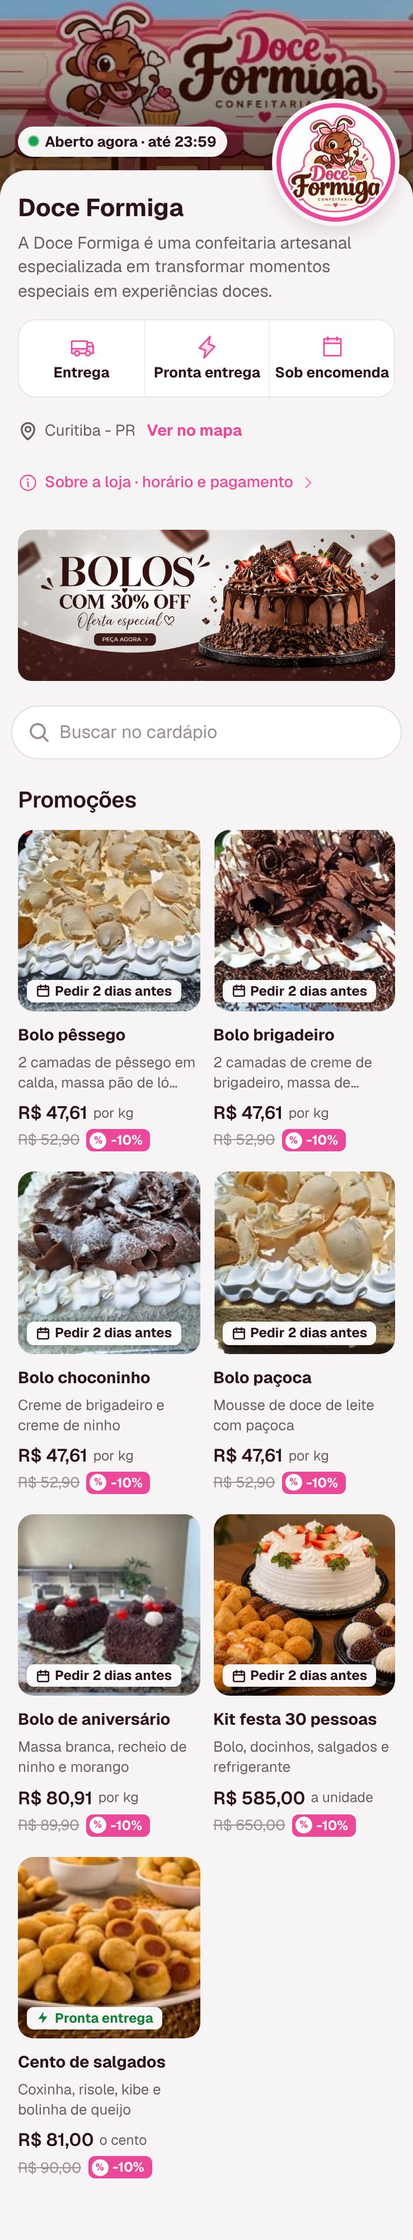
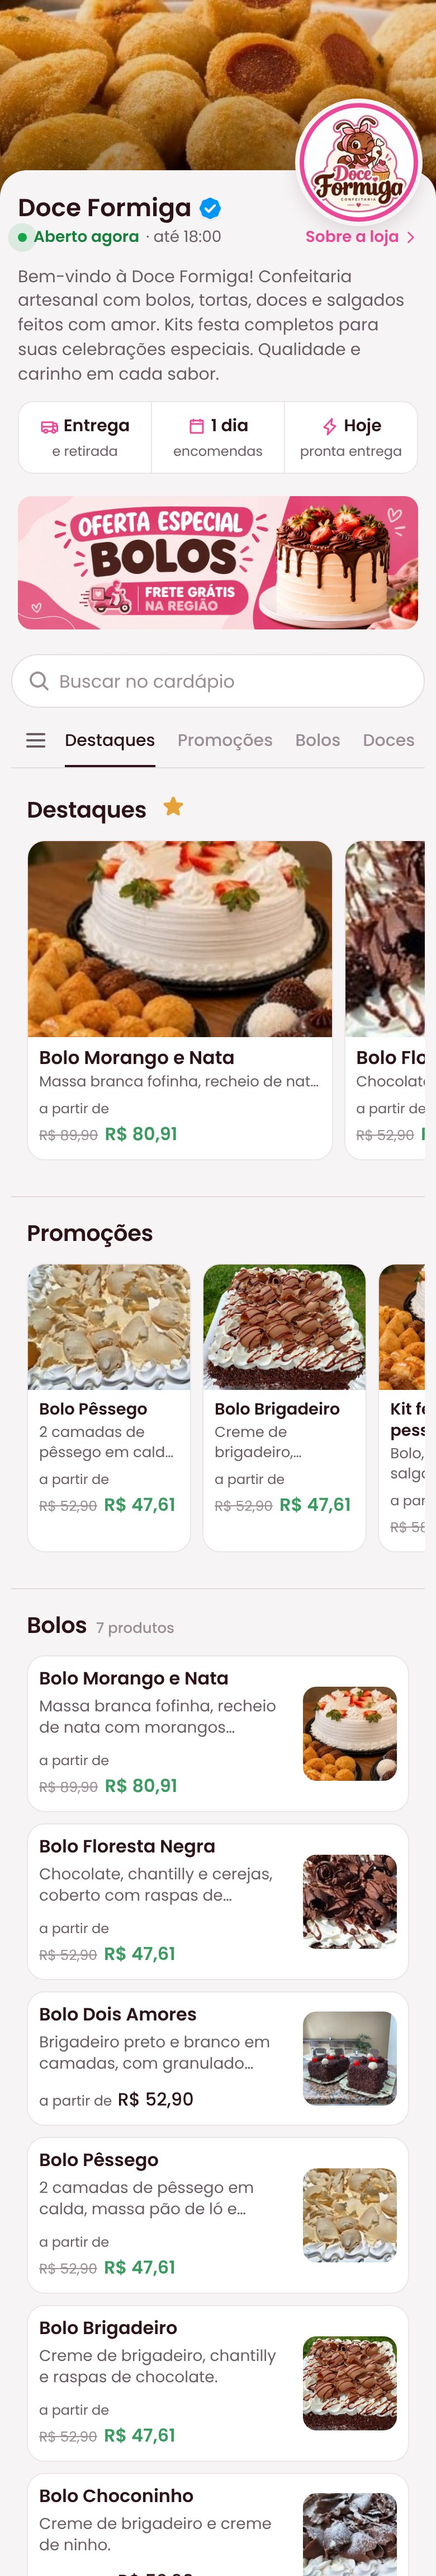
4.64: tutorial — prints novos do cardápio atual (destaques, promoções rolando de lado) e celular maior com o texto mais pra cima
Claude-Session: https://claude.ai/code/session_01Tr1mYrTU9rTShFnbh3vuaV

diff --git a/src/components/boasVindas/BoasVindas.tsx b/src/components/boasVindas/BoasVindas.tsx
@@ -63,7 +63,7 @@ const PRODUTO = {
 const fotoCliente = (id: string) => `/tutorial/boas-vindas/clientes/${id}.webp`
 
 // Só as imagens que as telas usam
-const IMAGENS = ['/tutorial/cardapio-exemplo.jpg?v=2', '/tutorial/cardapio-exemplo-nav.jpg', ...Object.values(PRODUTO)]
+const IMAGENS = ['/tutorial/cardapio-exemplo.jpg?v=3', '/tutorial/cardapio-exemplo-nav.jpg?v=3', ...Object.values(PRODUTO)]
 
 export default function BoasVindas({ isOpen, onClose, nome }: Props) {
   const [tela, setTela] = useState(0)
@@ -350,9 +350,9 @@ function Encolhe({ largura, children }: { largura: number; children: ReactNode }
   )
 }
 
-const PRINT_CEL = '/tutorial/cardapio-exemplo.jpg?v=2'
-const PRINT_CEL_MENU = '/tutorial/cardapio-exemplo-nav.jpg'
-const PRINT_PC = '/tutorial/cardapio-exemplo-pc.jpg?v=2'
+const PRINT_CEL = '/tutorial/cardapio-exemplo.jpg?v=3'
+const PRINT_CEL_MENU = '/tutorial/cardapio-exemplo-nav.jpg?v=3'
+const PRINT_PC = '/tutorial/cardapio-exemplo-pc.jpg?v=3'
 
 function DemoCardapio() {
   return (

diff --git a/src/components/boasVindas/boasVindas.css b/src/components/boasVindas/boasVindas.css
@@ -341,3 +341,10 @@
 @keyframes bvNotif2 { from { opacity: 0; transform: translateY(-14px) scale(.96); } }
 @media (prefers-reduced-motion: reduce) { .bv-notif-cartao { animation: none; } }
 @media (min-width: 900px), (min-width: 640px) and (max-height: 520px) { .bv-base { align-items: flex-start; } .bv-agora-nao { padding-left: 4px; } }
+
+/* (29/10 · 4.64) tela do cardápio no celular: o celular cresce com a tela (antes parava em 470px de altura e sobrava
+   espaço em cima do texto em celular alto). Crescendo, o texto sobe sozinho. A largura acompanha a altura. */
+@media (max-width: 1099px), (max-height: 599px) {
+  .bv-tela-1 .bv-so-cel .bv-cel { width: clamp(275px, calc((100dvh - 350px) * .56), 330px); max-width: 84vw; }
+  .bv-tela-1 .bv-so-cel .bv-cel-tela { height: clamp(200px, calc(100dvh - 350px), 620px); }
+}

diff --git a/src/lib/versao.ts b/src/lib/versao.ts
@@ -2,4 +2,4 @@
  * Versão do app — aparece no menu da foto e vai junto nas sugestões e nos problemas relatados.
  * A cada atualização publicada, sobe 1 no número depois do ponto: 2.0 → 2.1 → 2.2 …
  */
-export const VERSAO_APP = "4.63";
+export const VERSAO_APP = "4.64";
